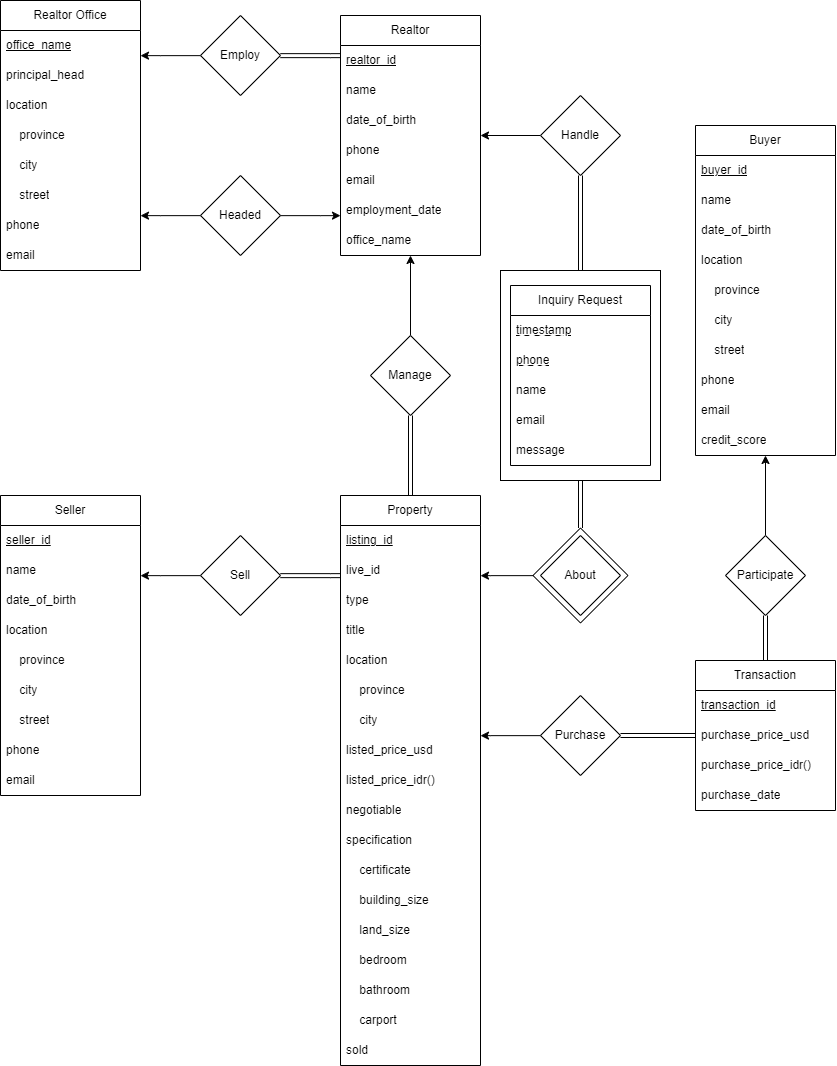
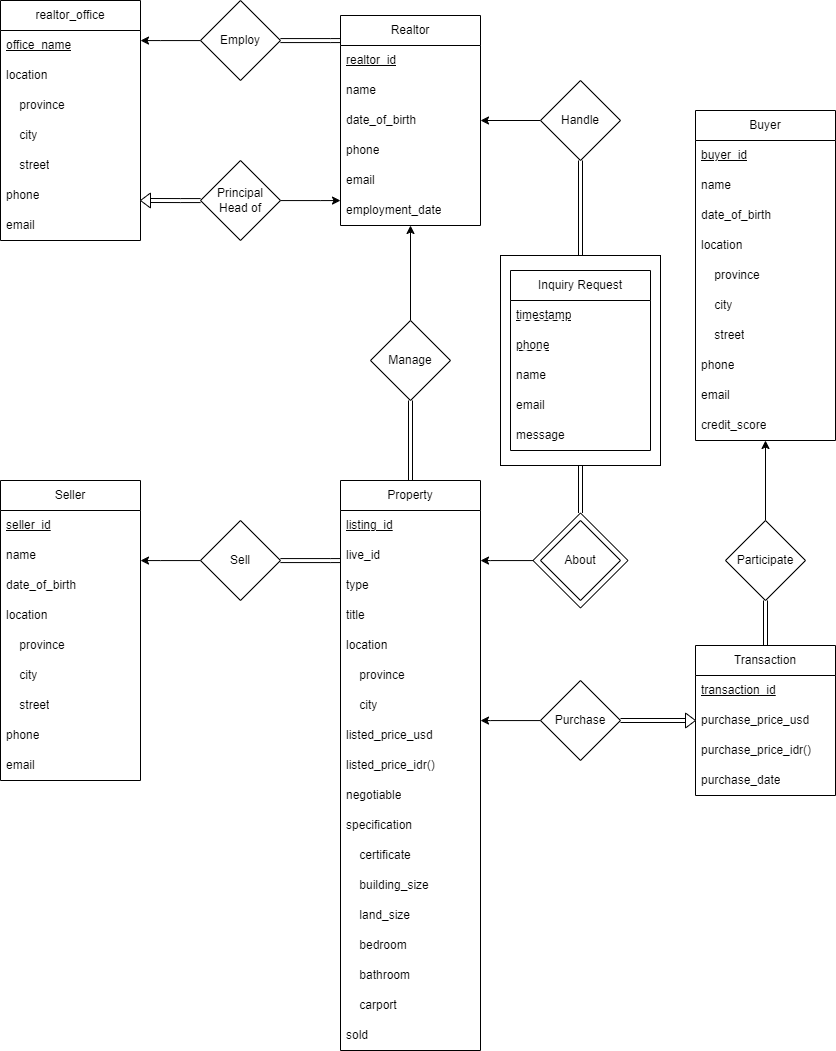
almost

diff --git a/README.md b/README.md
@@ -7,7 +7,8 @@
 
 <h2 align="center">
   <br>
-  Muhammad Rafi Haidar - 18221134
+  Author
+  18221134 / Muhammad Rafi Haidar
   18221134@std.stei.itb.ac.id
   <br>
   <br>
@@ -18,7 +19,7 @@
 
 Ray White Indonesia adalah anak perusahaan Ray White Group, perusahaan real estat multinasional yang berbasis di Australia. Dengan kehadiran melalui 175 kantor cabangnya yang tersebar di 25 kota besar di Indonesia, serta didukung oleh 4000 Marketing Executive yang berpengalaman, Ray White Indonesia mampu menawarkan berbagai layanan unggulan kepada para kliennya. Melalui layanan seperti manajemen properti yang profesional, penjualan properti yang efektif, dan appraisal properti yang akurat, Ray White Indonesia menjadi salah satu pemain utama dalam industri real estat di Indonesia.
 
-Data hasil scraping merupakan hasil pengumpulan informasi dari situs web https://www.raywhite.co.id/ yang mencakup informasi tentang listing properti yang dijual. Data tersebut mencakup judul listing beserta ID listing properti dan live ID properti. Data juga mencakup spesifikasi relevan mengenai properti tersebut, seperti tipe properti, lokasi properti yang mencakup kota dan provinsi, nilai jual properti dalam mata uang dolar AS dan rupiah, status negosiasi harga properti, ukuran tanah dan bangunan dari properti, jenis sertifikat kepemilikan properti, serta jumlah kamar tidur, kamar mandi, dan garasi yang tersedia dalam properti. Selain itu, data juga mencakup informasi tentang agen real estat yang mengurus properti tersebut. Informasi tersebut meliputi nama agen, ID pegawai agen, nomor telepon agen, dan kantor tempat agen tersebut bekerja.
+Data hasil scraping merupakan hasil pengumpulan informasi dari situs web https://www.raywhite.co.id/ yang mencakup informasi tentang listing properti yang dijual. Data tersebut mencakup judul listing beserta ID listing properti dan live ID properti. Data juga mencakup spesifikasi relevan mengenai properti tersebut, seperti tipe properti, lokasi properti yang mencakup kota dan provinsi, nilai jual properti dalam mata uang dolar AS dan rupiah, status negosiasi harga properti, ukuran tanah dan bangunan dari properti, jenis sertifikat kepemilikan properti, serta jumlah kamar tidur, kamar mandi, dan tempat parkir mobil yang tersedia dalam properti. Selain itu, data juga mencakup informasi tentang agen real estat yang mengurus properti tersebut. Informasi tersebut meliputi nama agen, ID pegawai agen, nomor telepon agen, dan kantor tempat agen tersebut bekerja.
 
 Hasil scraping data disimpan ke dalam beberapa berkas JSON yang terpisah berdasarkan tipe properti dan satu berkas yang merupakan gabungan dari semua berkas JSON. Selain itu, data juga disimpan dalam format CSV sebagai redundancy dan untuk memudahkan penulis dalam memasukkan data ke dalam DBMS. Selain itu, data hasil scraping juga disimpan dalam beberapa tabel di dalam basis data SQL dengan encoding UTF8 menggunakan DBMS PostgreSQL.
 
@@ -28,7 +29,7 @@ Penulis memilih untuk melakukan scraping data properti yang dijual di situs http
 
 Data yang diperoleh melalui scraping dapat dianalisis untuk menghasilkan informasi tentang harga properti dan persebarannya di seluruh Indonesia. Analisis tersebut dapat memberikan informasi  bagi calon pembeli dalam menentukan properti yang sesuai dengan kebutuhan mereka. Selain itu, hasil analisis juga dapat digunakan oleh investor real estat untuk mempelajari tren pasar properti di Indonesia dan membantu mereka dalam membuat keputusan investasi.
 
-Selain itu, hasil analisis data properti juga dapat menjadi alat bagi pemangku kepentingan publik dalam merencanakan dan mengembangkan daerah. Informasi tentang harga properti, jumlah listing, dan lokasi dapat membantu pengambil kebijakan dalam merencanakan pengembangan wilayah, kebijakan perumahan, dan kebijakan publik lainnya yang berkaitan dengan sektor properti secara umum ataupun perumahan.
+Selain itu, hasil analisis data properti juga dapat menjadi alat bagi pemangku kepentingan umum seperti pemerintah dalam merencanakan dan mengembangkan daerah. Informasi tentang harga properti, jumlah listing, dan lokasi dapat membantu pihak terkait dalam merencanakan pengembangan wilayah, kebijakan perumahan, dan kebijakan publik lainnya yang berkaitan dengan sektor properti secara umum ataupun perumahan.
 
 
 ### Specification of the program
@@ -44,39 +45,174 @@ Folder __Data Storing__ tidak mempunyai program apapun, namun memiliki hasil dum
 
 ### How to use
 
-Untuk menggunakan __RayWhiteScraping.ipynb__, jalankan semua cell program python secara berurutan. Pastikan semua library yang akan digunakan sudah terpasang dan perangkat yang akan digunakan memiliki akses ke internet. Pastikan nilai dari semua variabel __output_dir__ diganti dengan path yang sesuai
+Untuk menggunakan __RayWhiteScraping.ipynb__, jalankan semua cell program python secara berurutan. Pastikan semua library yang akan digunakan sudah terpasang dan perangkat yang akan digunakan memiliki akses ke internet. Pastikan nilai dari semua variabel __output_dir__ diganti dengan path yang sesuai. Untuk mengganti jumlah laman utama yang ingin di-scrap dari setiap properti, ganti nilai konstanta dengan nama properti di fungsi utama. Semua data dari semua berkas JSON akan digabungkan ke dalam satu berkas gabungan apabila tidak terjadi kendala. Apabila terjadi kendala koneksi, sesuaikan nilai pertama di dalam for loop propertyType untuk memulai proses scraping dari tempat terjadi kegagalan dan jalankan cell terakhir untuk menggabungkan berkas secara manual. 
+
+Untuk menggunakan __RayWhiteAnalysis.ipynb__, jalankan semua cell program python secara berurutan. Pastikan semua library sudah terpasang dan variabel __file_path__ diubah nilainya ke path berkas __raywhite_merged.jeson__.
+
+Untuk menggunakan __raywhite_database.sql__, pastikan versi PostgreSQL yang terpasang merupakan versi ke-15 dan import berkas tersebut ke dalam basis data yang diinginkan. Jalankan query __SET client_encoding = 'UTF8';__ untuk mengubah encoding client ke encoding yang digunakan oleh data hasil scraping.
+
 
 ### JSON Structure
 
-{"listing_id":384815,"live_id":"L22197450","type":"house","title":"Rumah Mewah Siap Huni Harga Bersahabat Di Taman Laguna","province":"Jawa Barat","city":"Bekasi","value_usd":165104,"value_idr":2487787072,"negotiable":false,"building_size":null,"land_size":165.0,"certificate":"SHM\/Freehold","bedroom":5.0,"bathroom":4.0,"carport":2.0,"realtor_id":26577,"realtor":"Dini Aryati","realtor_phone":"+6281296632515","realtor_office":"Ray White Pondok Indah Arteri"}
+Data hasil scraping dibagi ke beberapa berkas JSON berdasarkan tipe propertinya. Satu berkas JSON memuat hasil scraping dari 15 laman yang berisikan 39 listing properti. Semua data akan digabung ke satu berkas JSON bernama __raywhite_merged.jeson__.
 
-1. Dari data _scraping_ yang sudah dilakukan, lakukan __pengembangan *database*__ dalam bentuk ERD kemudian __translasi ERD tersebut menjadi diagram relasional.__ Tambahkan tabel lain yang sekiranya berkaitan dengan tabel-tabel yang didapatkan dari _data scraping_ yang dilakukan.
-   
-2. Implementasikan skema relational diagram tersebut ke __RDBMS__ sesuai pilihan peserta. __DBMS No-SQL tidak akan diterima.__ Jangan lupa implementasikan _constraints (primary key, foreign key,_ dsb) pada _database_ yang dibuat.
+Berikut merupakan sampel entri dari salah satu berkas JSON hasil scraping data:
 
-3. Masukkan data hasil _scraping_ ke dalam RDBMS yang sudah dibuat. Tambahan tabel pada skema yang dibuat tidak perlu diisi dengan data _dummy_ (cukup dibiarkan kosong).
+[
+  ...,
+  {
+    "listing_id": 384815,
+    "live_id": "L22197450",
+    "type": "house",
+    "title": "Rumah Mewah Siap Huni Harga Bersahabat Di Taman Laguna",
+    "province": "Jawa Barat",
+    "city": "Bekasi",
+    "value_usd": 165104,
+    "value_idr": 2487787072,
+    "negotiable": false,
+    "building_size": null,
+    "land_size": 165.0,
+    "certificate": "SHM/Freehold",
+    "bedroom": 5.0,
+    "bathroom": 4.0,
+    "carport": 2.0,
+    "realtor_id": 26577,
+    "realtor": "Dini Aryati",
+    "realtor_phone": "+6281296632515",
+    "realtor_office": "Ray White Pondok Indah Arteri"
+  },
+  ...
+]
 
-4. Tools yang digunakan __dibebaskan__ pada peserta.
+Berikut penjelasan key dan nilai dari struktur JSON di atas
 
-5. Pada folder `Data Storing`, Calon warga basdat harus mengumpulkan bukti penyimpanan data pada DBMS. _Folder_ `Data Storing` terdiri dari folder `screenshots`, `export`, dan `design`.
-    - _Folder_ `screenshot` berisi tangkapan layar bukti dari penyimpanan data ke RDBMS.
-    - _Folder_ `export` berisi _file_ hasil _export_ dari DBMS dengan format `.sql`.
-    -  _Folder_ `design` berisi ER Diagram dan diagram relasional yang disimpan dalam format `.png`
+listing_id : ID listing properti
+live_id : ID live properti
+type : jenis properti
+title : judul listing properti
+province : provinsi tempat properti berlokasi
+city : kota tempat properti berlokasi
+value_usd : harga jual properti dalam dolar AS
+value_idr : harga jual properti dalam rupiah
+negotiable : status yang menunjukan apakah harga jual properti dapat dinegosiasi (true jika iya, false jika tidak)
+building_size : ukuran gedung properti dalam m2
+land_size : ukuran tanah properti dalam m2
+certificate : jenis sertifikat kepemilikan properti
+bedroom: jumlah kamar tidur di properti
+bathroom: jumlah kamar mandi di properti
+carport: jumlah tempat parkir mobil di properti
+realtor_id : ID pegawai milik agen properti yang mengurus listing
+realtor : nama agen properti yang mengurus listing
+realtor_phone : nomor telepon milik agen properti yang mengurus listing
+realtor_office : kantor tempat agen properti yang mengurus listing bekerja
 
 
-### Bonus
-Task berikut bersifat tidak wajib (__BONUS__), boleh dikerjakan sebagian atau seluruhnya.
+### Database Structure (ERD and relational diagram)
 
-- Buatlah visualisasi data dalam bentuk _dashboard_ (dari data hasil _scraping_ saja) dan jelaskan apa _insights_ yang didapatkan dari visualisasi data tersebut. _Tools_ untuk melakukan visualisasi data ini dibebaskan pada peserta.
+Desain Diagram ER
+https://github.com/haidar2003/Seleksi-2023-Tugas-1/blob/main/Data%20Storing/design/raywhite_ERD.png
 
-### Pengumpulan
+Desain Relational Diagram
+https://github.com/haidar2003/Seleksi-2023-Tugas-1/blob/main/Data%20Storing/design/raywhite_Relational%20Model.png
 
 
-1. Dalam mengerjakan tugas, calon warga basdat terlebih dahulu melakukan _fork_ project github pada link berikut: [Seleksi-2023-Tugas-1](https://github.com/wargabasdat/Seleksi-2023-Tugas-1). Sebelum batas waktu pengumpulan berakhir, calon warga basdat harus sudah melakukan _pull request_ dengan nama ```TUGAS_SELEKSI_1_[NIM]```
+### Explanation of ERD to relational diagram translation process
 
-2. Tambahkan juga `.gitignore` pada _file_ atau _folder_ yang tidak perlu di-_upload_. __NB: BINARY TIDAK DIUPLOAD__
+1. Entity Realtor Office
+realtor_office(__office_name__, principal_head, province, city, street, phone, email)
 
-3. Berikan satu buah file `README` yang __WELL DOCUMENTED__ dengan cara __override__ _file_ `README.md` ini. `README` harus minimal memuat konten :
+FK:
+realtor_office(principal_head) -> realtor(realtor_id)
+
+Penjelasan:
+Entity Realtor Office merupakan strong entity yang mempunyai dua relationship dengan entity realtor. 
+
+Relationship pertama merupakan hubungan one-to-many bernama employ. Satu kantor cabang bisa memiliki banyak agen properti di bawahnya, namun satu agen hanya bisa bekerja di bawah satu kantor cabang. Foreign key dengan nama office_name disisipkan pada tabel realtor dan mengacu pada primary key tabel realtor_office.
+
+Relationship kedua merupakan hubungan one-to-one bernama Principal Head of. Satu kantor cabang harus mempunyai satu agen properti yang berperan sebagai principal head. Foreign key dengan nama principal_head disisipkan pada tabel realtor_office dan mengacu pada primary key tabel realtor.
+
+2. Entity Realtor
+realtor(__realtor_id__, name, date_of_birth, phone, email, employment_date, office_name)
+
+FK:
+realtor(office_name) -> realtor_office(office_name)
+
+Penjelasan:
+Entity Realtor merupakan strong entity yang mempunyai empat relationship, yaitu dengan entity Realtor Office, Property, dan Inquiry Request.
+
+Relationship pertama merupakan hubungan one-to-many bernama employ. Satu kantor cabang bisa memiliki banyak agen properti di bawahnya, namun satu agen hanya bisa bekerja di bawah satu kantor cabang. Foreign key dengan nama office_name disisipkan pada tabel realtor dan mengacu pada primary key tabel realtor_office.
+
+Relationship kedua merupakan hubungan one-to-one bernama Principal Head of. Satu kantor cabang harus mempunyai satu agen properti yang berperan sebagai principal head. Foreign key dengan nama principal_head disisipkan pada tabel realtor_office dan mengacu pada primary key tabel realtor.
+
+Relationship ketiga merupakan hubungan one-to-many bernama Manage. Satu agen properti bisa mengurus banyak properti di bawahnya, namun satu properti hanya bisa diurus oleh satu agen properti. Foreign key dengan nama realtor_id disisipkan pada tabel property dan mengacu pada primary key tabel realtor.
+
+Relationship keempat merupakan hubungan one-to-many bernama Handle. Satu agen properti bisa menerima banyak inquiry request, namun satu inquiry request hanya bisa diterima oleh satu agenproperti. Foreign key dengan nama realtor_id disisipkan pada tabel inquiry_request dan mengacu pada primary key tabel realtor.
+
+3. Entity Seller
+seller(__seller_id__, name, date_of_birth, province, city, street, phone, email)
+
+Penjelasan:
+Entity Seller merupakan strong entity yang mempunyai satu relationship, yaitu dengan entity property. Relationship berupa hubungan one-to-many bernama Sell. Satu penjual bisa menjual banyak properti, namun satu properti hanya bisa dijual oleh satu penjual. Foreign key dengan nama seller_id disisipkan pada tabel property dan mengacu pada primary key tabel seller.
+
+4. Entity Buyer
+seller(__buyer_id__, name, date_of_birth, province, city, street, phone, email, credit_score)
+
+Penjelasan:
+Entity Buyer merupakan strong entity yang mempunyai satu relationship, yaitu dengan entity Transaction. Relationship berupa hubungan one-to-many bernama Participate. Satu pembeli dapat berpartisipasi di berbagai transaksi pembelian, namun satu transaksi hanya bisa memiliki satu pembeli yang berpartisipasi di dalamnya. Foreign key dengan nama buyer_id disisipkan pada tabel transaction dan mengacu pada primary key tabel buyer.
+
+5. Entity Transaction
+transaction(__transaction_id__, purchase_price_usd, purchase_date, buyer_id, listing_id)
+
+FK:
+transaction(buyer_id) -> buyer(buyer_id)
+transaction(listing_id) -> property(listing_id)
+
+Penjelasan:
+Entity Transaction merupakan strong entity yang mempunyai dua relationship, yaitu dengan entity Buyer dan Property.
+
+Relationship pertama merupakan hubungan one-to-many bernama Participate. Satu pembeli dapat berpartisipasi di berbagai transaksi pembelian, namun satu transaksi hanya bisa memiliki satu pembeli yang berpartisipasi di dalamnya. Foreign key dengan nama buyer_id disisipkan pada tabel transaction dan mengacu pada primary key tabel buyer.
+
+Relationship kedua merupakan hubungan one_to_one bernama Purchase. Satu transaksi harus mempunyai satu properti yang dibeli. Foreign  key dengan nama lisitng_id disisipkan pada tabel transaction dan mengacu pada primary key tabel property.
+
+6. Entity Property
+property(__listing_id__, live_id, type, title, province, city, listed_price_usd, negotiable, cetificate, building_size, land_size, bedroom, bathroom, carport, sold, seller_id, realtor_id)
+
+FK:
+property(seller_id) -> seller(seller_id)
+property(realtor_id) -> realtor(realtor_id)
+
+Penjelasan:
+Entity Property merupakan strong entity yang mempunyai empat relationship, yaitu dengan entity realtor, seller, transaction, dan inquiry_request.
+
+Relationship pertama merupakan hubungan one-to-many bernama Manage. Satu agen properti bisa mengurus banyak properti di bawahnya, namun satu properti hanya bisa diurus oleh satu agen properti. Foreign key dengan nama realtor_id disisipkan pada tabel property dan mengacu pada primary key tabel realtor.
+
+Relationship kedua merupakan hubungan one-to-many bernama Sell. Satu penjual bisa menjual banyak properti, namun satu properti hanya bisa dijual oleh satu penjual. Foreign key dengan nama seller_id disisipkan pada tabel property dan mengacu pada primary key tabel seller.
+
+Relationship ketiga merupakan hubungan one_to_one bernama Purchase. Satu transaksi harus mempunyai satu properti yang dibeli. Foreign  key dengan nama lisitng_id disisipkan pada tabel transaction dan mengacu pada primary key tabel property.
+
+Relationship keempat merupakan hubungan one-to-many bernama About dengan weak entity Inquiry Request yang terikat pada strong entity Property. Satu property bisa memiliki banyak inquiry request namun satu inquiry request hanya bisa mengacu pada inquiry request. Foreign key dengan nama listing_id dijadikan sebagai primary key di tabel inquiry_request bersama dengan discriminatornya.
+
+7. Weak Entity Inquiry Request
+inquiry_request(__timestamp, phone, listing_id__, realtor_id, email, name, message)
+
+FK:
+inquiry_request(listing_id) -> property(listing_id)
+inquiry_request(realtor_id) -> realtor(realtor_id)
+
+Penjelasan:
+Entity Inquiry Request merupakan weak entity yang mempunyai dua relationship, yaitu dengan entity realtor dan property.
+
+Relationship pertama merupakan hubungan one-to-many bernama Handle. Satu agen properti bisa menerima banyak inquiry request, namun satu inquiry request hanya bisa diterima oleh satu agenproperti. Foreign key dengan nama realtor_id disisipkan pada tabel inquiry_request dan mengacu pada primary key tabel realtor.
+
+Relationship kedua merupakan hubungan one-to-many bernama About dengan strong entity Property yang terikat dengan weak entity inquiry_request. Satu property bisa memiliki banyak inquiry request namun satu inquiry request hanya bisa mengacu pada inquiry request. Foreign key dengan nama listing_id dijadikan sebagai primary key di tabel inquiry_request bersama dengan discriminatornya.
+
+
+### Screenshot program
+
+
+### Reference
+
+
 
 
 ```
